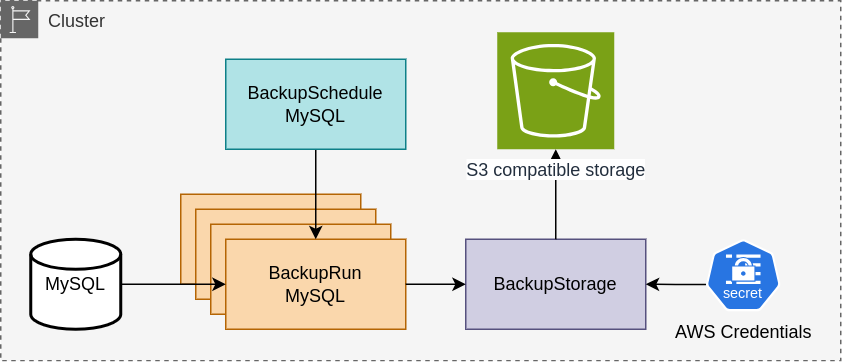
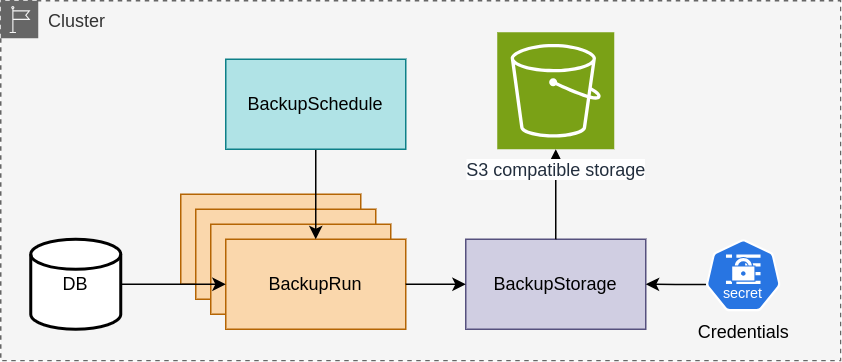
Added flow images. Removed MySQL names from diagram images.

diff --git a/docs/index.md b/docs/index.md
@@ -1,4 +1,5 @@
-# Introduction
+Introduction
+===
 
 The operator allows you to create a simple schedule and/or manually initiate *BackupRuns* to back up or restore any data you need. You define the script for backup and restoration yourself, while the operator takes care of compression, encryption, rotation, and storage.
 
@@ -8,9 +9,35 @@ The operator allows you to create a simple schedule and/or manually initiate *Ba
 
 There are a core ideas that operator follows.
 
-1. We can backup and restore anything
+1. We can backup and restore anything, user defines the script for backup/restoration
 2. We do not need backups of volumes or VMs, only data
-3. We must be able to perform both backup and restoration from a standard Docker image
+3. We have to be able to perform both backup and restoration from a standard Docker image
+4. Operator must not store any intermediate data and have to stream all the data in/out the storage
+5. There have to be a Pod per backup, no execs to running Pods with actual databases
+
+## Backup flow
+
+![Backup flow](assets/diagrams/backup-flow.png)
+
+1. Operator creates a Pod where exec will be executed
+2. Backup command in executed: stdin and stderr are ignored, stdout is grabbed as a data
+3. Operator compresses the data with [gzip](https://pkg.go.dev/compress/gzip) in stream
+4. Compresses stream is encrypted with [age](https://pkg.go.dev/filippo.io/age)
+5. Result stream is uploaded to the file in the [S3 storage](https://pkg.go.dev/github.com/aws/aws-sdk-go/service/s3)
+6. Operator kills the Pod
+
+## Restore flow
+
+![Restore flow](assets/diagrams/restore-flow.png)
+
+1. Operator creates a Pod where exec will be executed
+2. Operator reads file from the storage
+3. Decryption of the stream
+4. Decompression of the stream
+5. Restore command in executed: stdout and stderr are ignored, stdin is provided with plain data
+6. Operator kills the Pod once the backup command ends
+
+## Example
 
 ```yaml
 apiVersion: backup-operator.io/v1
